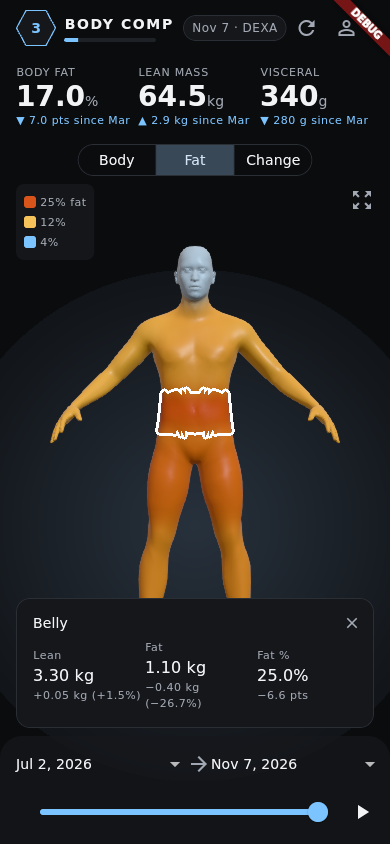
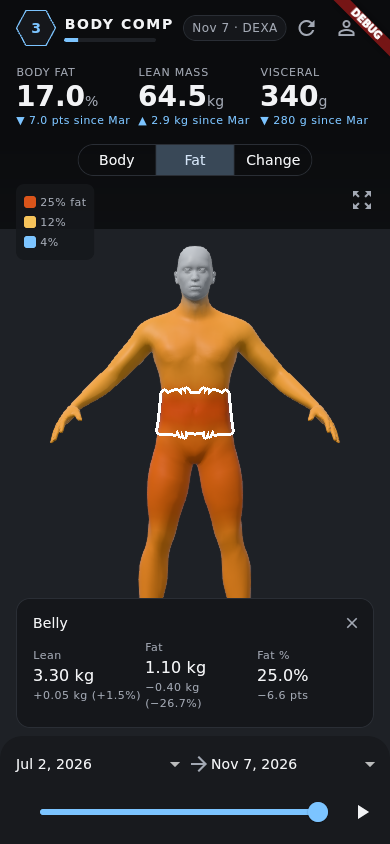
Keep Studio as the default body style; Hologram is a Settings option
Abel chose Studio by default in the 3D LLD review (Nov 19). Hologram, the
launch direction's game look, is offered next to Studio and Midnight.
Screenshots updated: Studio as the default, Hologram separately.

Claude-Session: https://claude.ai/code/session_01881r6wStWWazdPF3GVtggV

Changed region(s): [[0.1231, 0.2773, 0.8308, 0.7085], [0.8308, 0.4929, 0.8615, 0.5237]]

diff --git a/packages/app_body/lib/src/domain/body_renderer.dart b/packages/app_body/lib/src/domain/body_renderer.dart
@@ -5,17 +5,17 @@ import 'dart:ui' show Brightness, Offset, Size;
 import 'package:body_mapping/body_mapping.dart';
 import 'package:material_ui/material_ui.dart' show BuildContext, Widget;
 
-/// How the body looks. [hologram] is the launch look and the default: a
-/// glowing game-style avatar on a scanner pad in dark mode, a porcelain body
-/// on an Ice ring in light mode. Studio and Midnight are Settings options.
-/// Fat and Change are view modes on any style, not styles. All follow the
-/// phone's light or dark mode.
+/// How the body looks. Studio is the default (Abel, 3D LLD review, Nov 19).
+/// [hologram] is the launch-direction game look as a Settings option: a
+/// glowing Ice avatar on a scanner pad in dark mode, a porcelain body on an
+/// Ice ring in light mode. Fat and Change are view modes on any style, not
+/// styles. All follow the phone's light or dark mode.
 enum BodyStyle {
   hologram,
   studio,
   midnight;
 
-  static const BodyStyle defaultStyle = hologram;
+  static const BodyStyle defaultStyle = studio;
 }
 
 /// How the camera frames the body, shared by the renderer and anything drawn

diff --git a/packages/app_body/test/src/body_view_test.dart b/packages/app_body/test/src/body_view_test.dart
@@ -61,8 +61,8 @@ void main() {
     expect(renderer.shapeUploads, greaterThan(0));
     expect(renderer.t, 1);
     expect(renderer.colors, isNull);
-    expect(renderer.style, BodyStyle.hologram);
-    expect(find.byKey(const Key('body_pad')), findsOneWidget);
+    expect(renderer.style, BodyStyle.studio);
+    expect(find.byKey(const Key('body_pad')), findsNothing);
     expect(find.text('Jul 2, 2026'), findsOneWidget);
     expect(find.text('Nov 7, 2026'), findsOneWidget);
   });
@@ -142,6 +142,15 @@ void main() {
   testWidgets('shows the empty message with no scans', (tester) async {
     await pump(tester, scans: const []);
     expect(find.textContaining('after your first scan'), findsOneWidget);
+  });
+
+  testWidgets('hologram style stands the body on a scanner pad', (
+    tester,
+  ) async {
+    store.saved = BodyStyle.hologram;
+    await pump(tester, theme: AppTheme.dark);
+    expect(renderer.style, BodyStyle.hologram);
+    expect(find.byKey(const Key('body_pad')), findsOneWidget);
   });
 
   testWidgets('uses the saved style and follows dark mode', (tester) async {

diff --git a/packages/app_body/lib/src/presentation/body_providers.dart b/packages/app_body/lib/src/presentation/body_providers.dart
@@ -187,7 +187,8 @@ final bodyStyleStoreProvider = Provider<BodyStyleStore>(
   (ref) => SharedPreferencesBodyStyleStore(),
 );
 
-/// The body style setting. Hologram until the saved choice loads.
+/// The body style setting. [BodyStyle.defaultStyle] until the saved choice
+/// loads.
 class BodyStyleController extends Notifier<BodyStyle> {
   @override
   BodyStyle build() {
